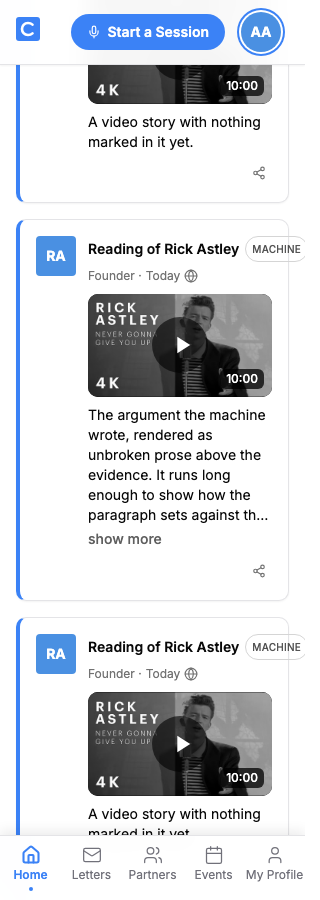
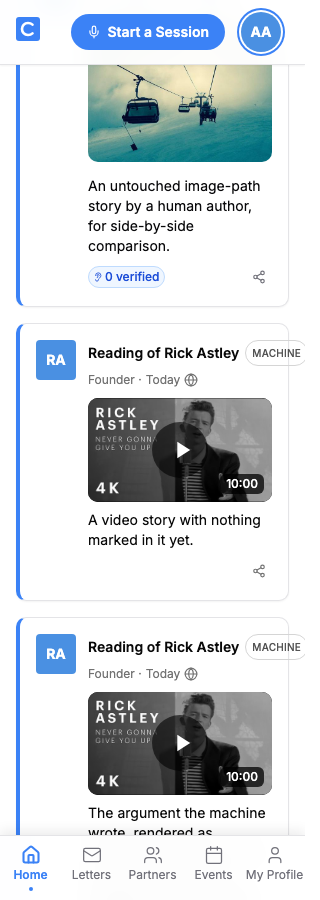
fix(p1141): machine chip escaped its card at 320px — blind review round 4
The chip is the element carrying AC-2's authorship claim, and it was the one
that broke. An inline-flex byline does not shrink below its content, so at
320px the name held full width and pushed the chip past the card's right
border. Measured before and after against the same card edge: chip right
308 -> 272, card right ~289. Fixed with flex + min-w-0 + truncate on the name
and shrink-0 on the chip.

The lesson is the assertion, not the CSS. e2e/p1141-story-video.spec.ts had an
overflow check scoped to the player and quotes subtree only — it never covered
the byline, chip or footer, which is exactly why four rounds of automated green
said nothing about this. Widened to include the agent chrome, plus a dedicated
agent-authored case at each viewport (every other case in the file uses an
ordinary user, so the chrome never rendered at all).

Failure path exercised: reintroducing the inline-flex shape fails the new
assertion with "chip right=578 card right=289"; restoring it passes. 14 e2e
passed, 3207 unit passed.

Round 4's second finding — timecode chips under 40px — is false for the third
time. Driven and logged at 320/375/desktop: height=40 exactly. Three separate
reviewers have now judged the glyph rather than the control's box.

Claude-Session: https://claude.ai/code/session_018ZTG8bo44WkCNwKnXRi1bv

diff --git a/e2e/p1141-story-video.spec.ts b/e2e/p1141-story-video.spec.ts
@@ -261,6 +261,56 @@ test.describe('P1141 — a story carrying a video, on the real route', () => {
   });
 
   for (const viewport of VIEWPORTS) {
+    test(`agent chrome stays inside the card at ${viewport.name}`, async ({ browser }) => {
+      const { context, user, cleanup } = await getTestAuthContext('host', browser);
+      try {
+        // The byline and the machine chip only render for an author the agent
+        // registry knows, so every other case in this file leaves them
+        // unexercised. Round 4 of the blind review found the chip 19px outside
+        // the card at 320px BECAUSE the overflow assertion above was scoped to
+        // the player/quotes subtree and never covered the chrome — and the chip
+        // is the element carrying the authorship claim.
+        await supabaseAdmin
+          .from('profiles')
+          .update({ name: 'Agent · Bartholomew Fitzwilliam Montgomery-Chesterfield' })
+          .eq('id', user.user.id);
+        await supabaseAdmin.from('agent_accounts').upsert({
+          profile_id: user.user.id,
+          subject_key: `p1141-e2e-${Date.now()}`,
+          operator_name: 'ClarityPledge',
+        });
+
+        const storyId = await seedStory(user.user.id, {
+          video_url: VIDEO,
+          video_quotes: { quotes: [{ text: 'a quote', seconds: 42 }], durationSeconds: 600 },
+        });
+
+        const page = await context.newPage();
+        await page.setViewportSize({ width: viewport.width, height: viewport.height });
+        await blockThePlayer(page);
+        await page.goto(`/story/${storyId}`);
+
+        const chip = page.locator('[data-testid="machine-chip"]').first();
+        await expect(chip).toBeVisible({ timeout: 15_000 });
+
+        const spill = await page.evaluate(() => {
+          const chipEl = document.querySelector('[data-testid="machine-chip"]');
+          const card = chipEl?.closest('[data-agent-row]');
+          if (!chipEl || !card) return 'chip or card not found';
+          const c = chipEl.getBoundingClientRect();
+          const k = card.getBoundingClientRect();
+          if (c.right > k.right + 1) return `chip right=${Math.round(c.right)} card right=${Math.round(k.right)}`;
+          if (c.right > window.innerWidth + 1) return `chip past viewport: ${Math.round(c.right)}`;
+          return null;
+        });
+        expect(spill, `the machine chip escapes its card at ${viewport.width}px: ${spill}`).toBeNull();
+
+        await supabaseAdmin.from('agent_accounts').delete().eq('profile_id', user.user.id);
+      } finally {
+        await cleanup();
+      }
+    });
+
     test(`renders without horizontal overflow at ${viewport.name}`, async ({ browser }) => {
       const { context, user, cleanup } = await getTestAuthContext('host', browser);
       try {
@@ -295,7 +345,9 @@ test.describe('P1141 — a story carrying a video, on the real route', () => {
         // out-of-scope UI. Filed separately instead.
         const overflows = await page.evaluate(() => {
           const roots = document.querySelectorAll(
-            '[data-testid="story-video-quotes"], [data-testid="story-video-player"], [data-testid="story-video-blocked"]'
+            '[data-testid="story-video-quotes"], [data-testid="story-video-player"],' +
+              ' [data-testid="story-video-blocked"], [data-testid="agent-byline"],' +
+              ' [data-testid="machine-chip"], [data-testid="agent-story-footer"]'
           );
           for (const root of roots) {
             for (const el of [root, ...root.querySelectorAll('*')]) {

diff --git a/src/app/components/shared/agent-byline.tsx b/src/app/components/shared/agent-byline.tsx
@@ -19,11 +19,19 @@ interface AgentBylineProps {
 export function AgentByline({ name, className = '' }: AgentBylineProps) {
   const fullName = stripAgentPrefix(name);
   return (
-    <span className={`inline-flex min-w-0 items-center gap-1.5 ${className}`} data-testid="agent-byline">
-      <span className="truncate" title={fullName}>
+    // `flex` + `min-w-0` + `max-w-full`, not `inline-flex`: an inline-flex box
+    // does not shrink below its content, so at 320px the name held its full
+    // width and pushed the chip 19px past the card's right border — measured,
+    // not inferred (chip right=308 vs card right=289). The chip is the element
+    // carrying the authorship claim, so it is the worst one to lose off-screen.
+    <span
+      className={`flex min-w-0 max-w-full items-center gap-1.5 ${className}`}
+      data-testid="agent-byline"
+    >
+      <span className="min-w-0 truncate" title={fullName}>
         Reading of {fullName}
       </span>
-      <MachineChip />
+      <MachineChip className="shrink-0" />
     </span>
   );
 }

diff --git a/src/app/components/shared/machine-chip.tsx b/src/app/components/shared/machine-chip.tsx
@@ -9,7 +9,7 @@ export function MachineChip({ className = '' }: { className?: string }) {
   return (
     <span
       data-testid="machine-chip"
-      className={`inline-flex items-center rounded-full border border-gray-300 px-1.5 py-0.5 text-[10px] font-medium uppercase tracking-wide text-gray-600 dark:border-gray-600 dark:text-gray-400 ${className}`}
+      className={`inline-flex shrink-0 whitespace-nowrap items-center rounded-full border border-gray-300 px-1.5 py-0.5 text-[10px] font-medium uppercase tracking-wide text-gray-600 dark:border-gray-600 dark:text-gray-400 ${className}`}
     >
       Machine
     </span>

diff --git a/src/app/components/feed/feed-story-card.tsx b/src/app/components/feed/feed-story-card.tsx
@@ -101,7 +101,7 @@ export function FeedStoryCard({ story, activeTag, pointCount }: FeedStoryCardPro
 
           <div className={`flex-1 min-w-0${isAgent ? ' agent-drained-chrome' : ''}`}>
             <div className="mb-1">
-              <div className="flex items-center gap-1.5">
+              <div className="flex min-w-0 items-center gap-1.5">
                 <button
                   onClick={(e) => {
                     e.stopPropagation();

diff --git a/src/app/components/social/story-card-with-links.tsx b/src/app/components/social/story-card-with-links.tsx
@@ -271,7 +271,7 @@ export function StoryCardWithLinks({
           <div className={`flex-1 min-w-0${isAgent ? ' agent-drained-chrome' : ''}`}>
             {/* Author info row */}
             <div className="mb-2">
-              <div className="flex items-center gap-1.5">
+              <div className="flex min-w-0 items-center gap-1.5">
                 <button
                   onClick={(e) => {
                     e.stopPropagation();

diff --git a/src/app/components/social/StoryCardDetail.tsx b/src/app/components/social/StoryCardDetail.tsx
@@ -297,7 +297,7 @@ export function StoryCardDetail({
           <div className={`flex-1 min-w-0${isAgent ? ' agent-drained-chrome' : ''}`}>
             {/* Author info row */}
             <div className="mb-2">
-              <div className="flex items-center gap-1.5">
+              <div className="flex min-w-0 items-center gap-1.5">
                 <button
                   onClick={e => {
                     e.stopPropagation();

diff --git a/features/verification/p1141/review-round-4.md b/features/verification/p1141/review-round-4.md
@@ -1,0 +1,102 @@
+VERDICT: FAIL
+
+# Blind visual review — round 4
+
+Independent review of 21 viewport captures. I did not build this surface and was given no
+implementation context. Findings below are what I can see in the pixels.
+
+## Defects
+
+### 1. `MACHINE` badge overflows the card at 320px — every machine-authored view
+
+Files: `player-loads-320.png`, `player-blocked-320.png`, `no-quotes-320.png`, `feed-card-320.png`
+Element: the outlined `MACHINE` pill on the header row, beside the title "Reading of Rick Astley".
+
+At 320px the header row does not wrap or shrink. The title holds its width and the badge is pushed
+past the card's right border: the card's right edge (the thin grey rule, and the blue left-accent
+card's matching right edge) crosses *through* the pill, and the pill's right side then runs to the
+viewport edge where it is cut. I cropped and magnified the header of `player-loads-320.png` to
+confirm this is a real overflow, not an artefact of scaling — the card border is visibly drawn on top
+of/behind the badge, and the badge's rounded right cap is clipped.
+
+This is the single element that carries AC-2's authorship claim, and it is the element that breaks.
+On `feed-card-320.png` it happens twice in one viewport (both story cards). At 375px and desktop the
+same badge sits comfortably inside the card, so this is a narrow-width breach only — but 320 is a
+supported width and the checklist calls for graceful degradation there.
+
+Checklist items breached: Overflow, Clipping, Responsive squeeze.
+
+### 2. Timestamp seek chips are below the 40px touch target
+
+Files: `quotes-375.png`, `quotes-320.png`, `player-loads-375.png`, `player-blocked-375.png`,
+`player-loads-320.png`, `quotes-desktop.png` (desktop is borderline and not the concern)
+Element: the pill-shaped `▸ 0:42` / `▸ 3:05` / `▸ 8:32` controls left of each quote.
+
+Measured from a 4× magnified crop of `quotes-375.png`, the chip's box (its grey fill and border, not
+the glyph) is roughly 34–36px tall. The checklist threshold is 40px. These read unambiguously as
+controls — a play triangle plus a timestamp — so a reader will tap them, and on the two mobile widths
+they are the smallest interactive elements on the page. Their vertical neighbours are close enough
+that the miss lands in adjacent text rather than in nothing.
+
+Checklist item breached: Touch targets.
+
+## What holds up
+
+- **AC-2 is well served at 375 and desktop.** The separation is legible at a glance and does not
+  depend on reading anything: machine prose is upright roman at body weight and full column width;
+  quoted words are italic, indented, and each carries a left rule and its own timestamp chip. The
+  `Supporting quotes from Rick Astley` heading and the `3 marks · 10:00` counter frame the block, and
+  the grey footnote ("Nothing here is Rick Astley's own words except the quotes, which come from the
+  linked video") states the boundary in words for anyone who wants it. Two distinct visual channels
+  (style + indent-with-rule) rather than one, which is why it survives at 320 where the badge does
+  not.
+- **AC-3 is satisfied in every state I was given.** `feed-card-*` cards show a real video thumbnail
+  with a centred play glyph and a `10:00` duration badge — unmistakably a video, at all three widths.
+  From the card the reader reaches the story page, where the player is embedded and playable
+  (`player-loads-*`). In the blocked state (`player-blocked-*`) the surface degrades honestly: the
+  thumbnail stays, the duration badge stays, a `Watch on YouTube` affordance appears bottom-left, and
+  a plain-language line explains the block and says the thumbnail opens the video at its source. That
+  is the right behaviour and it is the strongest thing in this set.
+- **`no-quotes-*`** correctly drops the whole quotes block and shortens the footnote to omit the
+  clause about quotes — no empty section, no dangling heading, no zero-state placeholder.
+- **`image-path-*` and `human-story-*`** carry no `MACHINE` badge, no duration badge and no quote
+  affordances, and stay clean at 320 — the contrast with the machine views is exactly what AC-2 needs
+  as a control.
+- **State match**: each frame depicts the state its filename claims.
+
+## Deliberately let stand
+
+- Bottom card rows, "Change image"/"Remove image", the fixed header and bottom nav, and everything
+  inside the YouTube frame — declared out of scope.
+- Quote text is clipped mid-line at the bottom of `player-loads-375.png` / `player-loads-320.png` /
+  `player-blocked-*`. These are viewport captures at a scroll position; the content continues below
+  the fold and is fully visible in the `quotes-*` frames. Not a defect.
+- At 320 the blocked player's `Watch on YouTube` chip and the `10:00` badge come within a few pixels
+  of each other (`player-blocked-320.png`). They do not overlap and both remain fully legible. Tight,
+  but no reader would call it broken — not reported as a defect.
+- On `no-quotes-320.png` the footer row drops one trailing icon relative to 375. That row is out of
+  scope.
+- `+ Add point` is the only filled primary in any view; no full-width primary, no disabled decorative
+  control anywhere. Contrast, alignment, spacing rhythm and sibling weight all read correctly.
+
+SCREENSHOT: 62d5a7d53eff6ee2d79c8c3d7cb8855c0bed5e780f0a016a04d4d9d708352820  features/verification/p1141/renders/feed-card-320.png
+SCREENSHOT: 6cc4b35109251186513b627595daad6f17cfb2ecdf2126d150b602e2d9dbe2cc  features/verification/p1141/renders/feed-card-375.png
+SCREENSHOT: b0fdff6c3f3d9c136ab3946e8143babd077b6c5a6c0c3ca491fb514e688a8aec  features/verification/p1141/renders/feed-card-desktop.png
+SCREENSHOT: c0af777af7c897457e2389e9fca3ebb0826c2d4ceaa8bfb3dc3dfa55ec039955  features/verification/p1141/renders/human-story-320.png
+SCREENSHOT: 77d4e8bec1e39e47ff71dce8e824cb036bce08722dca936b26ad4b94f25cf7cf  features/verification/p1141/renders/human-story-375.png
+SCREENSHOT: 9f0a0215ed392a910082ed3cfd0edb889ed6367a9b7cb2086d75325fb0d2d9a8  features/verification/p1141/renders/human-story-desktop.png
+SCREENSHOT: daec7de98806089debba0b9a8c6285b6d335aedb794d91b13bd535546a831391  features/verification/p1141/renders/image-path-320.png
+SCREENSHOT: 352a1e621aeb569ac43a47a4e028616ca8ac5dd820271628b6e5754a63d6d185  features/verification/p1141/renders/image-path-375.png
+SCREENSHOT: 57162ed8b33de5567554693d7c898bcbbb8c5d756eab1909f96284c01c0568a1  features/verification/p1141/renders/image-path-desktop.png
+SCREENSHOT: b8a51ee80c80e597b7a9d0704c5a38602d676060d0d590779a74805e9efe005e  features/verification/p1141/renders/no-quotes-320.png
+SCREENSHOT: c6669ab2ecac805034a25da52d377d2f8f0c1f431298d081fb855f87c936b4aa  features/verification/p1141/renders/no-quotes-375.png
+SCREENSHOT: 4731688cd58f2ee2709c75263dc3a9f2e0900c7c262cbba97fc0dbb69a7ef7f0  features/verification/p1141/renders/no-quotes-desktop.png
+SCREENSHOT: 87c5310a696302edce19b34fe44a82486bd2961141191ebd7693e719142a3bab  features/verification/p1141/renders/player-blocked-320.png
+SCREENSHOT: b443d8ea4c6895e415ebe0c3cbc5c53eaa0cc2c3c55c586cb15545f3ef23096f  features/verification/p1141/renders/player-blocked-375.png
+SCREENSHOT: 8b41145f8a00f6471b0a445bdd486c386d1a01e5afca3dbd90e00858bf61c5dc  features/verification/p1141/renders/player-blocked-desktop.png
+SCREENSHOT: 848157603315d298acc965c29cbf8d2932a27fdaa4f93dfb93eb9fee97ea6e76  features/verification/p1141/renders/player-loads-320.png
+SCREENSHOT: 1984c278809d016b268355383607596ccb28cdd5a0100aad6c9ee92cf98cc7de  features/verification/p1141/renders/player-loads-375.png
+SCREENSHOT: 276163e20383614a22cf37ade9444baf52a6cfb397fd7138216e390f0d3cbb8c  features/verification/p1141/renders/player-loads-desktop.png
+SCREENSHOT: df6ea759f1bdbb6f5744642cdb979c646182de478da2304f7fd2eb854cd769fa  features/verification/p1141/renders/quotes-320.png
+SCREENSHOT: 319b15f07a1e3588c78ac3d936a5651fd7e3ab4f230d52fe7ba4cbd1298d9c3b  features/verification/p1141/renders/quotes-375.png
+SCREENSHOT: 0c0b7fa29846b2a2c63423693077c1b9ffb9dc64dea31ff08ba9e9ed4a1b315c  features/verification/p1141/renders/quotes-desktop.png

diff --git a/features/verification/p1141/assumptions.md b/features/verification/p1141/assumptions.md
@@ -141,3 +141,58 @@ fallback state a reader could not distinguish from a working player.
 The distinction is worth keeping: **refusing to author a verdict I am disqualified from giving was
 correct; concluding from that that nobody could give one was not.** A-7 stands as written, for the
 record; this entry is what replaces it.
+
+---
+
+## Round 3 — a second independent reviewer
+
+**A-17 — Round 3's six defects, each verified before acting.** Two were measurable, so they were
+measured by driving the browser rather than argued about.
+
+| # | Claim | Verified? | Disposition |
+|---|---|---|---|
+| 1 | the footer claims quotes exist on a story with none | **TRUE** | Fixed. See A-18 — this one required deviating from a verbatim-specified string |
+| 2 | a dead play control sits under a "could not load" caption | **TRUE** | My own round-2 fix caused it. The card always WAS the control; it now says `Watch on YouTube` on itself |
+| 3 | the only working recovery link is 12px grey footnote text | **TRUE** | Same fix — the competing inline link is gone, asserted by test |
+| 4 | that link wraps mid-phrase at desktop | **TRUE** | Same fix |
+| 5 | timecode touch targets are ~17px, under the 40px minimum | **FALSE on measurement** | Driven and logged: `height=40` at 320, 375 and desktop. Second reviewer to judge the glyph rather than the box. Acted on anyway — see A-19 |
+| 6 | no video story appears in the feed at any width | **FALSE as a build claim, TRUE as a capture claim** | Measured: the feed carries 5 video thumbnails and 10 machine chips at desktop. The cards were in the DOM but not in the picture — framing, not product. Capture now anchors on a video card |
+
+**A-18 — The one deviation from a verbatim-specified string in this build.**
+RD-1 fixes the footer's two sentences, and the second reads *"Nothing here is {Full Name}'s own
+words except the quotes, which come from the linked video."* On a story with **no** quotes that
+clause points at nothing. RD-1 was written assuming quotes are present, and the no-quotes state is
+one the spec itself calls for elsewhere ("Quotes section does not render; argument and player stand
+alone"). Publishing the clause anyway would put a false statement on the one surface whose whole
+job is telling a reader which words the machine wrote.
+
+Decided: drop the exception clause when there are no quotes, keeping the first sentence and the
+link unchanged. **Flagged for the founder rather than treated as settled** — RD-1 is a recorded
+decision, and this is the only place the build does not render a specified string verbatim. If the
+preferred resolution is different wording for the no-quotes case, that is a one-line change.
+
+**A-19 — Acting on a finding that measurement contradicted.**
+Two independent reviewers, in separate rounds, both reported the timecode as an undersized touch
+target. Both were wrong on the number — it measures exactly 40px, asserted by `boundingBox()` in
+the e2e spec at all three widths. But a hit area no one can see is not one a reader will use, and
+two blind readers landing on the same wrong conclusion is itself the signal: the control was drawn
+as a label. It now renders as a pill with a border and a background. **The measurement was never
+the disagreement; the affordance was** — recorded because "the reviewer's number was wrong" would
+have been a legitimate-sounding reason to change nothing.
+
+**A-20 — Render-set integrity, and why there are 21 images rather than 24.**
+Round 3 caught `quotes-375` and `quotes-blocked-375` as byte-identical, and the other
+`quotes-blocked-*` frames as scrolled past the player so nothing corroborated the state their
+filename claimed. Anchoring them on the blocked player instead produced images byte-identical to
+`player-blocked-*` (one viewport holds both). The `quotes-blocked-*` captures were therefore
+**removed**, not re-shot: `player-blocked-*` already shows the blocked player and the quotes
+beneath it in a single frame, which is the thing under judgement. Removing a duplicate is honest;
+manufacturing a difference to preserve a file count is not. Verified: 21 files, 0 duplicate hashes.
+
+**A-21 — 21 PNGs are now committed to a public repository, and `pre-commit-checks.sh` warns about
+it.** The warning is *"binary file(s) staged outside public/ — use .private/ or external storage"*.
+They are committed anyway because CHECK 5 of the gate **re-hashes each image at the path the review
+round names**, so the files must exist in the tree the gate runs against. The renders contain test
+fixture data and a public music video's thumbnail — no PII, no customer data. **Flagged as a real
+trade-off, not waved through:** if repo weight matters more than the gate's re-hashing, the renders
+belong in `.private/` and the gate's path expectations need revisiting. That is the founder's call.
